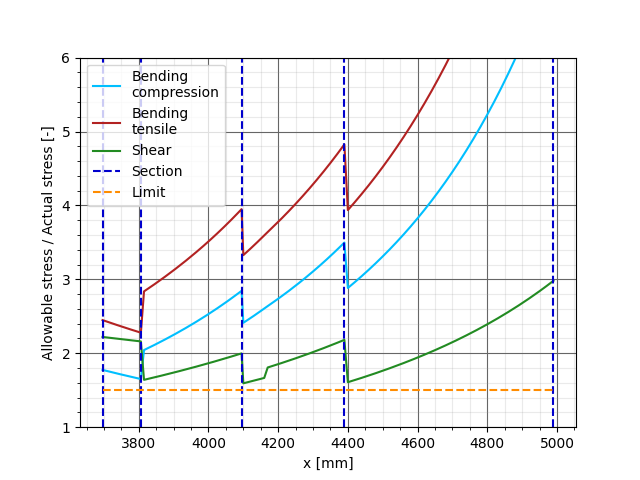
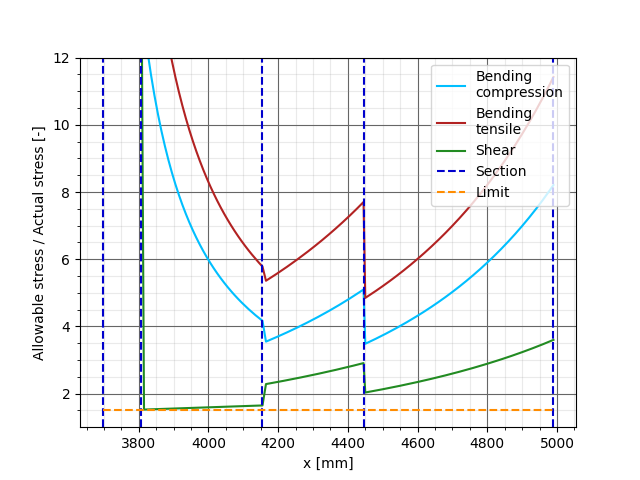
Final Design (is it?)

diff --git a/Structures/Fuselage/fus_main.py b/Structures/Fuselage/fus_main.py
@@ -134,7 +134,7 @@ def plot_margin(data1, objects):
         color="forestgreen",
     )
 
-    plt.vlines(sections, ymin=1, ymax=8, color="mediumblue", ls="--", label="Section")
+    plt.vlines(sections, ymin=1, ymax=17, color="mediumblue", ls="--", label="Section")
 
     plt.grid(visible=True, which="major", color="#666666", linestyle="-")
     plt.minorticks_on()
@@ -142,11 +142,11 @@ def plot_margin(data1, objects):
 
     plt.xlabel("x [mm]")
     plt.ylabel("Allowable stress / Actual stress [-]")
-    plt.ylim(1, 6)
+    plt.ylim(1, 12)
     plt.hlines(y=1.5, xmin=x[0], xmax=x[-1], ls="--", label="Limit", color="darkorange")
-    plt.legend(loc="upper left")
+    plt.legend(loc="upper right")
     # plt.title("Safety margins of structure")
-    plt.savefig("marginsFuselage6")
+    plt.savefig("marginsFuselage8")
 
     plt.show()
 
@@ -216,11 +216,11 @@ def final_design():
     top = [0.0]  # From right to left in y
 
     fuselage1 = Fuselage_idealized(
-        flange_thickness=0.96,
-        web_thickness=0.96,
-        stringer_width=12,
-        stringer_height=15,
-        skin_thickness=0.48,
+        flange_thickness=0.80,
+        web_thickness=0.80,
+        stringer_width=10,
+        stringer_height=10,
+        skin_thickness=0.32,
         start_x=3696,
         end_x=3815,
         top=top,
@@ -231,42 +231,42 @@ def final_design():
     )
 
     fuselage2 = Fuselage_idealized(
-        flange_thickness=0.96,
-        web_thickness=0.96,
-        stringer_width=12,
-        stringer_height=15,
-        skin_thickness=0.64,
+        flange_thickness=1.60,
+        web_thickness=1.44,
+        stringer_width=15,
+        stringer_height=20,
+        skin_thickness=1.28,
         start_x=3815,
-        end_x=4100,
+        end_x=4165,
         top=top,
         bot=bot,
         side=side,
         side2=side2,
         manual_place=True,
     )
-    
+
     fuselage3 = Fuselage_idealized(
         flange_thickness=0.96,
         web_thickness=0.96,
-        stringer_width=12,
-        stringer_height=15,
+        stringer_width=10,
+        stringer_height=10,
         skin_thickness=0.48,
-        start_x=4100,
-        end_x=4400,
+        start_x=4165,
+        end_x=4450,
         top=top,
         bot=bot,
         side=side,
         side2=side2,
         manual_place=True,
     )
-    
+
     fuselage4 = Fuselage_idealized(
-        flange_thickness=0.96,
-        web_thickness=0.96,
-        stringer_width=12,
-        stringer_height=15,
+        flange_thickness=0.80,
+        web_thickness=0.80,
+        stringer_width=10,
+        stringer_height=10,
         skin_thickness=0.32,
-        start_x=4400,
+        start_x=4450,
         end_x=4996,
         top=top,
         bot=bot,
@@ -285,38 +285,40 @@ def final_design():
     results3 = Fuselage_apply_loads.apply_forces(fuselage3, 8)
     results4 = Fuselage_apply_loads.apply_forces(fuselage4, 8)
 
-    test = pd.concat([ results1, results2, results3, results4]) 
+    test = pd.concat([results1, results2, results3, results4]) # 
     plot_moment(test)
     plot_shear(test)
 
     plot_margin(
-        [results1,results2, results3, results4], # 
-        [fuselage1, fuselage2, fuselage3, fuselage4]) # 
+        [results1, results2, results3, results4],  # 
+        [fuselage1, fuselage2, fuselage3, fuselage4], # 
+    )  #
 
-    # fuselage1.plot_cross_sec()
+    fuselage1.plot_cross_sec()
     print(fuselage1.stringerArea)
 
     print(fuselage1.weight, fuselage2.weight)
     print(
-        f"The weight of the fuselage = {round(fuselage1.weight +fuselage2.weight +fuselage3.weight + fuselage4.weight,2)} [kg]"
+        f"The weight of the fuselage = {round(fuselage1.weight +fuselage2.weight +fuselage3.weight + fuselage4.weight ,2)} [kg]" #+ fuselage4.weight
     )
-    
-
+    print(fuselage4.stringerArea, fuselage3.stringerArea,fuselage2.stringerArea,fuselage1.stringerArea)
+    print(fuselage4.weight, fuselage3.weight,fuselage2.weight,fuselage1.weight)
 # %%
 def plot_final_design():
+     # Manual y coordinate placement
     bot = [0.0, 250, 400]  # From LEFT to Right in y
     side = [300, 250]  # From RIGHT to LEFT in y
     side2 = [750]  ## This one are the z coordinates, Bottom to TOP!
     top = [0.0]  # From right to left in y
 
     fuselage1 = Fuselage_idealized(
-        stringer_spacing =30,
-        spacing_3d=20,
-        flange_thickness=0.96,
-        web_thickness=0.96,
-        stringer_width=12,
-        stringer_height=15,
-        skin_thickness=0.48,
+        stringer_spacing=30,
+        spacing_3d = 20,
+        flange_thickness=0.80,
+        web_thickness=0.80,
+        stringer_width=10,
+        stringer_height=10,
+        skin_thickness=0.32,
         start_x=3696,
         end_x=3815,
         top=top,
@@ -327,49 +329,15 @@ def plot_final_design():
     )
 
     fuselage2 = Fuselage_idealized(
-        stringer_spacing =30,
-        spacing_3d=20,
-        flange_thickness=0.96,
-        web_thickness=0.96,
-        stringer_width=12,
-        stringer_height=15,
-        skin_thickness=0.64,
+        stringer_spacing=30,
+        spacing_3d = 20,
+        flange_thickness=1.60,
+        web_thickness=1.44,
+        stringer_width=15,
+        stringer_height=20,
+        skin_thickness=1.28,
         start_x=3815,
-        end_x=4100,
-        top=top,
-        bot=bot,
-        side=side,
-        side2=side2,
-        # manual_place=True,
-    )
-    
-    fuselage3 = Fuselage_idealized(
-        stringer_spacing =30,
-        spacing_3d=20,
-        flange_thickness=0.96,
-        web_thickness=0.96,
-        stringer_width=12,
-        stringer_height=15,
-        skin_thickness=0.48,
-        start_x=4100,
-        end_x=4400,
-        top=top,
-        bot=bot,
-        side=side,
-        side2=side2,
-        # manual_place=True,
-    )
-    
-    fuselage4 = Fuselage_idealized(
-        stringer_spacing =30,
-        spacing_3d=20,
-        flange_thickness=0.96,
-        web_thickness=0.96,
-        stringer_width=12,
-        stringer_height=15,
-        skin_thickness=0.32,
-        start_x=4400,
-        end_x=4996,
+        end_x=4165,
         top=top,
         bot=bot,
         side=side,
@@ -377,6 +345,40 @@ def plot_final_design():
         # manual_place=True,
     )
 
+    fuselage3 = Fuselage_idealized(
+        stringer_spacing=30,
+        spacing_3d = 20,
+        flange_thickness=0.96,
+        web_thickness=0.96,
+        stringer_width=10,
+        stringer_height=10,
+        skin_thickness=0.48,
+        start_x=4165,
+        end_x=4450,
+        top=top,
+        bot=bot,
+        side=side,
+        side2=side2,
+        # manual_place=True,
+    )
+
+    fuselage4 = Fuselage_idealized(
+        stringer_spacing=30,
+        spacing_3d = 20,
+        flange_thickness=0.80,
+        web_thickness=0.80,
+        stringer_width=10,
+        stringer_height=10,
+        skin_thickness=0.32,
+        start_x=4450,
+        end_x=4996,
+        top=top,
+        bot=bot,
+        side=side,
+        side2=side2,
+        # manual_place=True,
+    )
+    
     fuselage1.create_fuselage()
     fuselage2.create_fuselage()
     fuselage3.create_fuselage()
@@ -387,7 +389,7 @@ def plot_final_design():
     results3 = Fuselage_apply_loads.apply_forces(fuselage3, 8)
     results4 = Fuselage_apply_loads.apply_forces(fuselage4, 8)
 
-    test = pd.concat([ results1, results2, results3, results4]) 
+    test = pd.concat([results1, results2, results3, results4])
     plot_moment(test, multiplication=5)
     plot_shear(test, multiplication=0.9)
 
@@ -403,4 +405,6 @@ def plot_final_design():
 # %%
 if __name__ == "__main__":
     final_design()
-    plot_final_design()
+    # plot_final_design()
+
+# %%

diff --git a/Structures/Fuselage/fus_loads.py b/Structures/Fuselage/fus_loads.py
@@ -46,70 +46,72 @@ qAFT = (OEW * 2) / (distributedL_weightAFT ** 2)
 
 def VM(x, n: int = 12):
 
-    distributedL_weightFW = cg_oew  # fuselage span in front of the CG
-    distributedL_weightAFT = full_fuse - cg_oew  # fuselage span aft of the CG
-
-    qFW = (OEW * 2) / (distributedL_weightFW ** 2)
-    qAFT = (OEW * 2) / (distributedL_weightAFT ** 2)
-    
-    
-    if x <=3.81:   
-        if 0 <= x <= bat_pos:
-            v = (qFW / (2)) * (x) ** 2
-            m = (qFW / (6)) * (x) ** 3
-            
-        if bat_pos <= x <= cg_oew:
-            v = BAT + ((qFW / (2)) * (x - bat_pos) ** 2)
-            m = BAT * (x - bat_pos) + ((qFW / (6)) * (x - bat_pos) ** 3)
-        
-    if x > 3.81:
-        x = x - 3.81
-        if 0 <= x <= (distributedL_weightAFT - (full_fuse - motor_pos)):
-            v = ((qAFT / (2)) * (distributedL_weightAFT - x) ** 2) + MOT
-            m = ((qAFT / (6)) * (distributedL_weightAFT - x) ** 3) + MOT * (
-                distributedL_weightAFT - (full_fuse - motor_pos) - x
-            )
-        if distributedL_weightAFT - (full_fuse - motor_pos) <= x <= distributedL_weightAFT:
-            v = (qAFT / (2)) * (distributedL_weightAFT - x) ** 2
-            m = (qAFT / (6)) * (distributedL_weightAFT - x) ** 3
-
-    return v * n, m * n
-
-if __name__ == "__main__":
     distributedL_weightFW = cg_oew #fuselage span in front of the CG
     distributedL_weightAFT = full_fuse - cg_oew #fuselage span aft of the CG
 
 
-    qFW = (OEW*2)/(distributedL_weightFW**2)
-    qAFT = (OEW*2)/(distributedL_weightAFT**2)
+    qFW = (OEW*2)/(distributedL_weightFW**2)*n
+    qAFT = (OEW*2)/(distributedL_weightAFT**2)*n
+
+    if 0 <= x <= bat_pos:
+        v = ((qFW/(2))*(x)**2)
+        m = ((qFW/(6))*(x)**3)
+        
+    if bat_pos <= x <= cg_oew:
+        v =  BAT + ((qFW/(2))*(x - bat_pos)**2)
+        m =  BAT * (x - bat_pos) + ((qFW/(6))*(x - bat_pos)**3)
+        
+    if x > 3.81:
+        x = x -3.81
+        if 0 <= x <= (distributedL_weightAFT-(full_fuse-motor_pos)):
+            v = ((qAFT/(2))*(distributedL_weightAFT - x)**2) + MOT - Wing
+            m = ((qAFT/(6))*(distributedL_weightAFT - x)**3) + MOT*(distributedL_weightAFT-(full_fuse-motor_pos) - x) - Wing*(distributedL_weightAFT-(full_fuse-wing_pos) - x)
+
+        if distributedL_weightAFT-(full_fuse-motor_pos) <= x <= distributedL_weightAFT:
+            v = ((qAFT/(2))*(distributedL_weightAFT - x)**2)
+            m = ((qAFT/(6))*(distributedL_weightAFT - x)**3)
+
+    return v , m 
+
+if __name__ == "__main__":
+    Vx = []
+    Mx = []
+
+    distributedL_weightFW = cg_oew #fuselage span in front of the CG
+    distributedL_weightAFT = full_fuse - cg_oew #fuselage span aft of the CG
+
+
+    qFW = (OEW*2)/(distributedL_weightFW**2)*n
+    qAFT = (OEW*2)/(distributedL_weightAFT**2)*n
 
     for i in range(len(x_pos_FW)):
         if 0 <= x_pos_FW[i] <= bat_pos:
             v1 = ((qFW/(2))*(x_pos_FW[i])**2)
             m1 = ((qFW/(6))*(x_pos_FW[i])**3)
-            Shear_FW.append(v1*n)
-            Bending_FW.append(m1*n)
+            Shear_FW.append(v1/1000)
+            Bending_FW.append(m1/1000)
         if bat_pos <= x_pos_FW[i] <= cg_oew:
             v2 =  BAT + ((qFW/(2))*(x_pos_FW[i] - bat_pos)**2)
-            m2 =  BAT*(x_pos_FW[i] - bat_pos) + ((qFW/(6))*(x_pos_FW[i] - bat_pos)**3)
-            Shear_FW.append(v2*n)
-            Bending_FW.append(m2*n)
+            m2 =  BAT * (x_pos_FW[i] - bat_pos) + ((qFW/(6))*(x_pos_FW[i] - bat_pos)**3)
+            Shear_FW.append(v2/1000)
+            Bending_FW.append(m2/1000)
             
     for k in range(len(x_pos_AFT)):
         if 0 <= x_pos_AFT[k] <= (distributedL_weightAFT-(full_fuse-motor_pos)):
-            v3 = ((qAFT/(2))*(distributedL_weightAFT - x_pos_AFT[k])**2) + MOT
-            m3 = ((qAFT/(6))*(distributedL_weightAFT - x_pos_AFT[k])**3) + MOT*(distributedL_weightAFT-(full_fuse-motor_pos) - x_pos_AFT[k])
-            Shear_AFT.append(v3*n)
-            Bending_AFT.append(m3*n)
+            v3 = ((qAFT/(2))*(distributedL_weightAFT - x_pos_AFT[k])**2) + MOT - Wing
+            m3 = ((qAFT/(6))*(distributedL_weightAFT - x_pos_AFT[k])**3) + MOT*(distributedL_weightAFT-(full_fuse-motor_pos) - x_pos_AFT[k]) - Wing*(distributedL_weightAFT-(full_fuse-wing_pos) - x_pos_AFT[k])
+            Shear_AFT.append(v3/1000)
+            Bending_AFT.append(m3/1000)
         if distributedL_weightAFT-(full_fuse-motor_pos) <= x_pos_AFT[k] <= distributedL_weightAFT:
             v4 = ((qAFT/(2))*(distributedL_weightAFT - x_pos_AFT[k])**2)
             m4 = ((qAFT/(6))*(distributedL_weightAFT - x_pos_AFT[k])**3)
-            Shear_AFT.append(v4*n)
-            Bending_AFT.append(m4*n)
+            Shear_AFT.append(v4/1000)
+            Bending_AFT.append(m4/1000)
 
     x_pos_whole = np.linspace(0, full_fuse, (len(x_pos_FW) + len(x_pos_AFT)))
     Vx = [*Shear_FW, *Shear_AFT]
     Mx = [*Bending_FW, *Bending_AFT]
+
 
 
 def plot_load_distribution():
